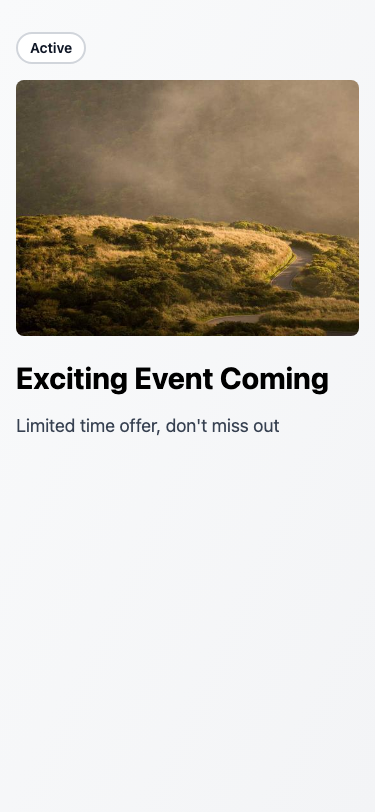
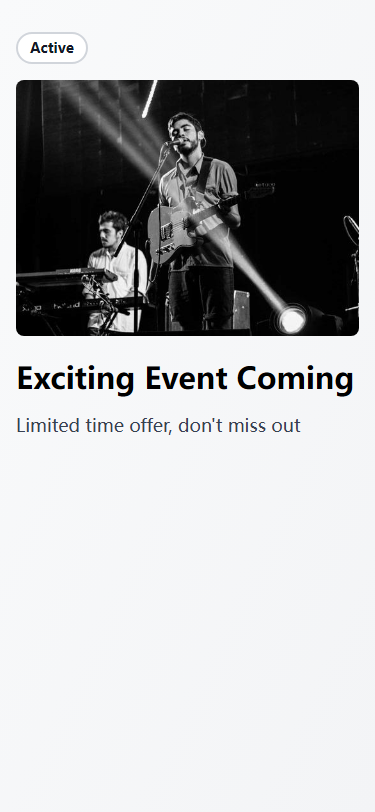
feat: 添加配置作用域包装组件并优化配置表单展示
refactor: 重构配置表单展示逻辑，移除冗余分隔符

style: 更新手机页面标题为"✨ 炫彩世界"

perf: 优化配置表单的视觉层次和可读性

docs: 更新demo-generator代理说明文件

Changed region(s): [[0.0293, 0.0308, 0.968, 0.5542]]

diff --git a/packages/author-site/components/demo/ConfigScopeWrapper.tsx b/packages/author-site/components/demo/ConfigScopeWrapper.tsx
@@ -1,0 +1,64 @@
+import { Globe, FileText } from "lucide-react";
+import { cn } from "@/lib/utils";
+import type { LucideIcon } from "lucide-react";
+
+type ConfigScope = "project" | "page";
+
+interface ConfigScopeWrapperProps {
+  scope: ConfigScope;
+  pageName?: string;
+  children: React.ReactNode;
+  className?: string;
+}
+
+interface ScopeConfig {
+  icon: LucideIcon;
+  title: string;
+  subtitle: string;
+  borderClass: string;
+  titleClass: string;
+}
+
+const SCOPE_CONFIG: Record<ConfigScope, ScopeConfig> = {
+  project: {
+    icon: Globe,
+    title: "项目配置",
+    subtitle: "所有页面共享",
+    borderClass: "border-l-3 border-blue-500",
+    titleClass: "text-blue-400",
+  },
+  page: {
+    icon: FileText,
+    title: "当前页面配置",
+    subtitle: "仅「{pageName}」",
+    borderClass: "border-l-3 border-orange-500",
+    titleClass: "text-orange-400",
+  },
+};
+
+export function ConfigScopeWrapper({
+  scope,
+  pageName,
+  children,
+  className,
+}: ConfigScopeWrapperProps) {
+  const config = SCOPE_CONFIG[scope];
+  const Icon = config.icon;
+  const subtitle =
+    scope === "page" && pageName
+      ? config.subtitle.replace("{pageName}", pageName)
+      : config.subtitle;
+
+  return (
+    <div className={cn("rounded-lg p-4", config.borderClass, className)}>
+      <div className="flex items-center gap-2 mb-3">
+        <Icon className={cn("h-4 w-4", config.titleClass)} />
+        <span className={cn("text-sm font-semibold", config.titleClass)}>
+          {config.title}
+        </span>
+        <span className="text-xs text-muted-foreground">{subtitle}</span>
+      </div>
+      {children}
+    </div>
+  );
+}

diff --git a/data/workspaces/a5862615-26bb-4688-924d-7fd68c132e21/proj_1776526720347/ws-1778426128006-85slrrcoj/index.tsx b/data/workspaces/a5862615-26bb-4688-924d-7fd68c132e21/proj_1776526720347/ws-1778426128006-85slrrcoj/index.tsx
@@ -1,0 +1,62 @@
+import React from 'react';
+
+interface BannerDemoProps {
+  banner: string;
+  title: string;
+  description: string;
+  theme: 'light' | 'dark' | 'colorful';
+  showBadge: boolean;
+}
+
+export default function BannerDemo({ 
+  banner, 
+  title, 
+  description, 
+  theme,
+  showBadge 
+}: BannerDemoProps) {
+  const bgClasses = {
+    light: 'bg-gradient-to-br from-gray-50 to-gray-100',
+    dark: 'bg-gradient-to-br from-gray-900 via-purple-900 to-violet-900',
+    colorful: 'bg-gradient-to-r from-pink-500 via-purple-500 to-indigo-500',
+  };
+
+  const textClasses = {
+    light: 'text-black',
+    dark: 'text-white',
+    colorful: 'text-white',
+  };
+
+  const descClasses = {
+    light: 'text-gray-700',
+    dark: 'text-white/80',
+    colorful: 'text-white/90',
+  };
+
+  const badgeClasses = {
+    light: 'bg-white text-gray-900 border-2 border-gray-300',
+    dark: 'bg-white text-gray-900',
+    colorful: 'bg-white/90 text-purple-600 font-bold',
+  };
+
+  return (
+    <div className={`min-h-screen ${bgClasses[theme]} ${textClasses[theme]}`}>
+      <div className="container mx-auto px-4 py-8">
+        {showBadge && (
+          <span className={`inline-block px-3 py-1 text-sm font-semibold rounded-full mb-4 ${badgeClasses[theme]}`}>
+            Active
+          </span>
+        )}
+        
+        <img 
+          src={banner} 
+          alt="banner" 
+          className="w-full h-64 object-cover rounded-lg mb-6"
+        />
+        
+        <h1 className="text-3xl font-bold mb-4">{title}</h1>
+        <p className={`text-lg ${descClasses[theme]}`}>{description}</p>
+      </div>
+    </div>
+  );
+}

diff --git a/packages/author-site/src/app/demo/[id]/edit/page.tsx b/packages/author-site/src/app/demo/[id]/edit/page.tsx
@@ -2,7 +2,7 @@
 
 import { useState, useCallback, useEffect, useRef } from "react";
 import { useRouter } from "next/navigation";
-import { PreviewPanel, ConfigForm, PreviewGrid, invalidateCompileCache } from "../../../../../components/demo";
+import { PreviewPanel, ConfigForm, PreviewGrid, ConfigScopeWrapper, invalidateCompileCache } from "../../../../../components/demo";
 import type { PreviewMode } from "../../../../../components/demo";
 import {
   parseFigmaText,
@@ -22,7 +22,7 @@ import { useToast } from "@/components/ui/toast-provider";
 import { Tabs, TabsContent, TabsList, TabsTrigger } from "@/components/ui/tabs";
 import { Input } from "@/components/ui/input";
 import { ScrollArea } from "@/components/ui/scroll-area";
-import { Separator } from "@/components/ui/separator";
+
 import { Badge } from "@/components/ui/badge";
 import { AIChat } from "@/components/ai-elements/ai-chat";
 import { type ChatMessage } from "@/components/ai-elements";
@@ -1136,12 +1136,8 @@ export default function DemoEditPage({ params }: DemoEditPageProps) {
             </div>
             <ScrollArea className="flex-1">
               <div className="p-4 space-y-4">
-                {/* 项目级配置 */}
                 {projectConfigSchema && (
-                  <div className="space-y-2">
-                    <div className="flex items-center gap-2">
-                      <span className="text-xs font-medium text-muted-foreground">📋 项目配置（所有页面共享）</span>
-                    </div>
+                  <ConfigScopeWrapper scope="project">
                     <ConfigForm
                       key={`project-${projectConfigSchema}`}
                       schema={projectConfigSchema}
@@ -1152,17 +1148,10 @@ export default function DemoEditPage({ params }: DemoEditPageProps) {
                       initialData={configData}
                       sessionId={sessionId}
                     />
-                    <Separator />
-                  </div>
+                  </ConfigScopeWrapper>
                 )}
 
-                {/* 页面级配置 */}
-                <div className="space-y-2">
-                  {projectConfigSchema && (
-                    <div className="flex items-center gap-2">
-                      <span className="text-xs font-medium text-muted-foreground">📄 当前页面配置</span>
-                    </div>
-                  )}
+                <ConfigScopeWrapper scope="page" pageName={demoPages.find(p => p.id === activeDemoId)?.name}>
                   <ConfigForm
                     key={schema}
                     schema={schema}
@@ -1171,7 +1160,7 @@ export default function DemoEditPage({ params }: DemoEditPageProps) {
                     initialData={configData}
                     sessionId={sessionId}
                   />
-                </div>
+                </ConfigScopeWrapper>
               </div>
             </ScrollArea>
           </ResizablePanel>

diff --git a/packages/author-site/src/app/viewer/[projectId]/[demoId]/page.tsx b/packages/author-site/src/app/viewer/[projectId]/[demoId]/page.tsx
@@ -2,12 +2,12 @@
 
 import { useState, useCallback, useEffect, useRef } from "react";
 import { useParams, useSearchParams } from "next/navigation";
-import { PreviewPanel, ConfigForm } from "../../../../../components/demo";
+import { PreviewPanel, ConfigForm, ConfigScopeWrapper } from "../../../../../components/demo";
 import type { PreviewSize } from "../../../../../components/demo";
 import { mergeConfigToProps } from "@/lib/runtime-props";
 import { getDefaultValues, getPreviewSize } from "../../../../../lib/validator";
 import { ScrollArea } from "@/components/ui/scroll-area";
-import { Separator } from "@/components/ui/separator";
+
 import { Settings, Loader2 } from "lucide-react";
 
 interface ViewerDemoPage {
@@ -306,10 +306,7 @@ export default function ViewerDemoPage() {
             <ScrollArea className="flex-1">
               <div className="p-4 space-y-4">
                 {data.projectConfigSchema && (
-                  <div className="space-y-2">
-                    <div className="flex items-center gap-2">
-                      <span className="text-xs font-medium text-muted-foreground">项目配置</span>
-                    </div>
+                  <ConfigScopeWrapper scope="project">
                     <ConfigForm
                       key={`project-${data.projectConfigSchema}`}
                       schema={data.projectConfigSchema}
@@ -317,17 +314,11 @@ export default function ViewerDemoPage() {
                       initialData={configData}
                       readonly
                     />
-                    <Separator />
-                  </div>
+                  </ConfigScopeWrapper>
                 )}
 
                 {currentPageSchema && (
-                  <div className="space-y-2">
-                    {data.projectConfigSchema && (
-                      <div className="flex items-center gap-2">
-                        <span className="text-xs font-medium text-muted-foreground">页面配置</span>
-                      </div>
-                    )}
+                  <ConfigScopeWrapper scope="page" pageName={currentPage?.name}>
                     <ConfigForm
                       key={`page-${activeDemoId}`}
                       schema={currentPageSchema}
@@ -335,7 +326,7 @@ export default function ViewerDemoPage() {
                       initialData={configData}
                       readonly
                     />
-                  </div>
+                  </ConfigScopeWrapper>
                 )}
               </div>
             </ScrollArea>

diff --git a/packages/author-site/src/app/viewer/[projectId]/page.tsx b/packages/author-site/src/app/viewer/[projectId]/page.tsx
@@ -2,12 +2,12 @@
 
 import { useState, useCallback, useEffect, useRef } from "react";
 import { useParams, useSearchParams } from "next/navigation";
-import { PreviewPanel, ConfigForm, PreviewGrid } from "../../../../components/demo";
+import { PreviewPanel, ConfigForm, PreviewGrid, ConfigScopeWrapper } from "../../../../components/demo";
 import type { PreviewMode, PreviewSize } from "../../../../components/demo";
 import { mergeConfigToProps } from "@/lib/runtime-props";
 import { getDefaultValues, getPreviewSize } from "../../../../lib/validator";
 import { ScrollArea } from "@/components/ui/scroll-area";
-import { Separator } from "@/components/ui/separator";
+
 import {
   Select,
   SelectContent,
@@ -408,10 +408,7 @@ export default function ViewerProjectPage() {
             <ScrollArea className="flex-1">
               <div className="p-4 space-y-4">
                 {data.projectConfigSchema && (
-                  <div className="space-y-2">
-                    <div className="flex items-center gap-2">
-                      <span className="text-xs font-medium text-muted-foreground">项目配置</span>
-                    </div>
+                  <ConfigScopeWrapper scope="project">
                     <ConfigForm
                       key={`project-${data.projectConfigSchema}`}
                       schema={data.projectConfigSchema}
@@ -419,17 +416,11 @@ export default function ViewerProjectPage() {
                       initialData={configData}
                       readonly
                     />
-                    <Separator />
-                  </div>
+                  </ConfigScopeWrapper>
                 )}
 
                 {activePageSchema && (
-                  <div className="space-y-2">
-                    {data.projectConfigSchema && (
-                      <div className="flex items-center gap-2">
-                        <span className="text-xs font-medium text-muted-foreground">页面配置</span>
-                      </div>
-                    )}
+                  <ConfigScopeWrapper scope="page" pageName={activePage?.name}>
                     <ConfigForm
                       key={`page-${activeDemoId}`}
                       schema={activePageSchema}
@@ -437,7 +428,7 @@ export default function ViewerProjectPage() {
                       initialData={configData}
                       readonly
                     />
-                  </div>
+                  </ConfigScopeWrapper>
                 )}
               </div>
             </ScrollArea>

diff --git a/packages/author-site/components/demo/index.ts b/packages/author-site/components/demo/index.ts
@@ -5,6 +5,7 @@ export type { PreviewPanelProps, ConfigFormProps, PreviewMode, PreviewState, Pre
 export { getCachedCompile, setCachedCompile, invalidateCompileCache } from './compile-cache';
 export { customWidgets, ColorPickerWidget, FileUploadWidget, RichTextWidget } from './widgets';
 export { ImageListWidget, type ImageItem, type ImageListWidgetProps } from './ImageListWidget';
+export { ConfigScopeWrapper } from './ConfigScopeWrapper';
 export { NoteButton } from './NoteButton';
 export { NoteDialog } from './NoteDialog';
 export { NotePreview, stripHtml } from './NotePreview';